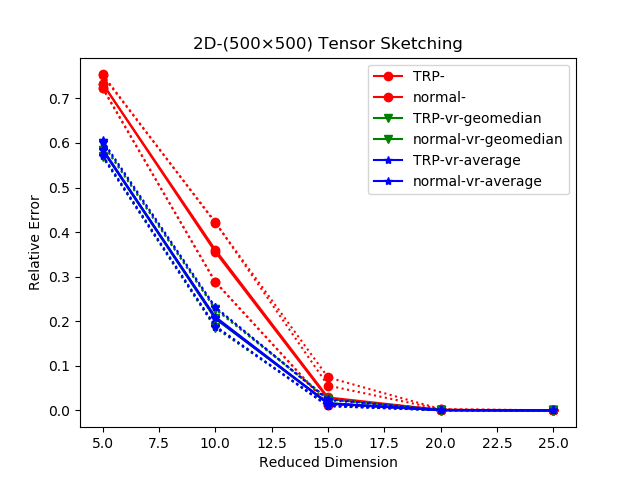
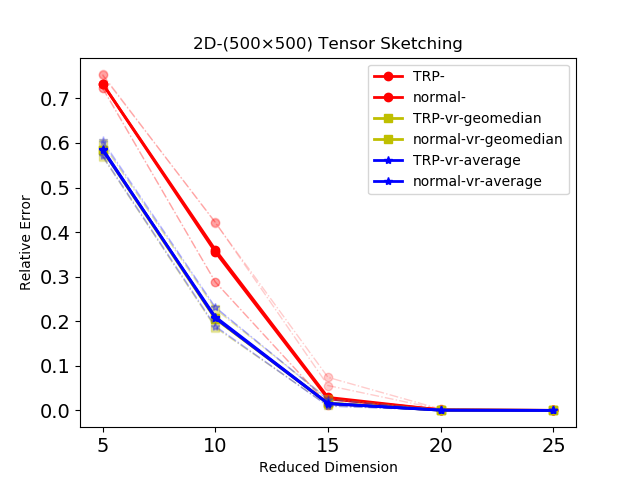
better plots(add alpha and change settings)

diff --git a/code/column_space/plot.py b/code/column_space/plot.py
@@ -6,8 +6,8 @@ import pickle
 dir_name, _ = os.path.split(os.path.abspath(__file__))
 fig_base = os.path.join(dir_name, 'figures')
 
-markers = ['o', 'v', '*']
-colors = ['r', 'g', 'b']
+markers = ['o', 's', '*']
+colors = ['r', 'y', 'b']
 
 def plot(tensor_dim, res, fig_name):
     '''
@@ -29,18 +29,18 @@ def plot(tensor_dim, res, fig_name):
 
     def _plot(relative_err_curves, x, tensor_type):
         fig, ax = plt.subplots()
-        # plot val
         for i, vr_method in enumerate(['raw', 'geomedian', 'average']):
             for rp_method in ['TRP', 'normal']:
                 label = '{}-{}'.format(rp_method, '' if vr_method == 'raw' else 'vr-{}'.format(vr_method))
                 key = '_'.join([rp_method, vr_method, tensor_type])
-                ax.plot(x, relative_err_curves[key]['val'], color=colors[i], label=label, marker=markers[i])
-                ax.plot(x, relative_err_curves[key]['upper_bound'], color=colors[i], linestyle=':', marker=markers[i])
-                ax.plot(x, relative_err_curves[key]['lower_bound'], color=colors[i], linestyle=':', marker=markers[i])
+                ax.plot(x, relative_err_curves[key]['val'], color=colors[i], label=label, marker=markers[i],linewidth=2.0)
+                ax.plot(x, relative_err_curves[key]['upper_bound'], color=colors[i], linestyle='-.',alpha=0.2,marker=markers[i],linewidth=1.0)
+                ax.plot(x, relative_err_curves[key]['lower_bound'], color=colors[i], linestyle='-.',alpha=0.2, marker=markers[i],linewidth=1.0)
         ax.legend()
         plt.title(fig_name)
         plt.xlabel('Reduced Dimension')
         plt.ylabel('Relative Error')
+        plt.tick_params(axis="both",labelsize=14)
         return fig
 
     res = res[tensor_dim]
@@ -65,4 +65,4 @@ if __name__ == '__main__':
     pickle_file = 'tensor_dim_(500, 500).pickle'
     res = pickle.load(open(os.path.join(dir_name, 'results\{}'.format(pickle_file)), 'rb'))
     tensor_dim = (500, 500)
-    plot(tensor_dim, res,'2D-(500×500) Tensor Sketching')
+    plot(tensor_dim, res,'Testplot')

diff --git a/code/column_space/column_space_experiment.py b/code/column_space/column_space_experiment.py
@@ -117,15 +117,15 @@ def column_space_experiment(tensor_dim=[(500, 500)], k=[5, 10, 15, 20, 25], mode
 if __name__ == '__main__':
     
     tl.set_backend('numpy')
-    #tensor_dim = (500, 500)
-    tensor_dim = (200, 200, 200)
+    tensor_dim = (500, 500)
+    #tensor_dim = (200, 200, 200)
     res = column_space_experiment(tensor_dim=[tensor_dim], k=[5, 10, 15, 20, 25], mode=1, iteration=100)
     
     dir_name, _ = os.path.split(os.path.abspath(__file__))
     pickle_base = os.path.join(dir_name, 'results')
     # save pickle
     pickle.dump(res, open(os.path.join(pickle_base, 'tensor_dim_{}.pickle'.format(tensor_dim)), 'wb'))
-    plot(tensor_dim, res=res, fig_name='3D-(200×200×200) Tensor Sketching')
+    plot(tensor_dim, res=res, fig_name='2D-(500×500) Tensor Sketching')
     
 
 
